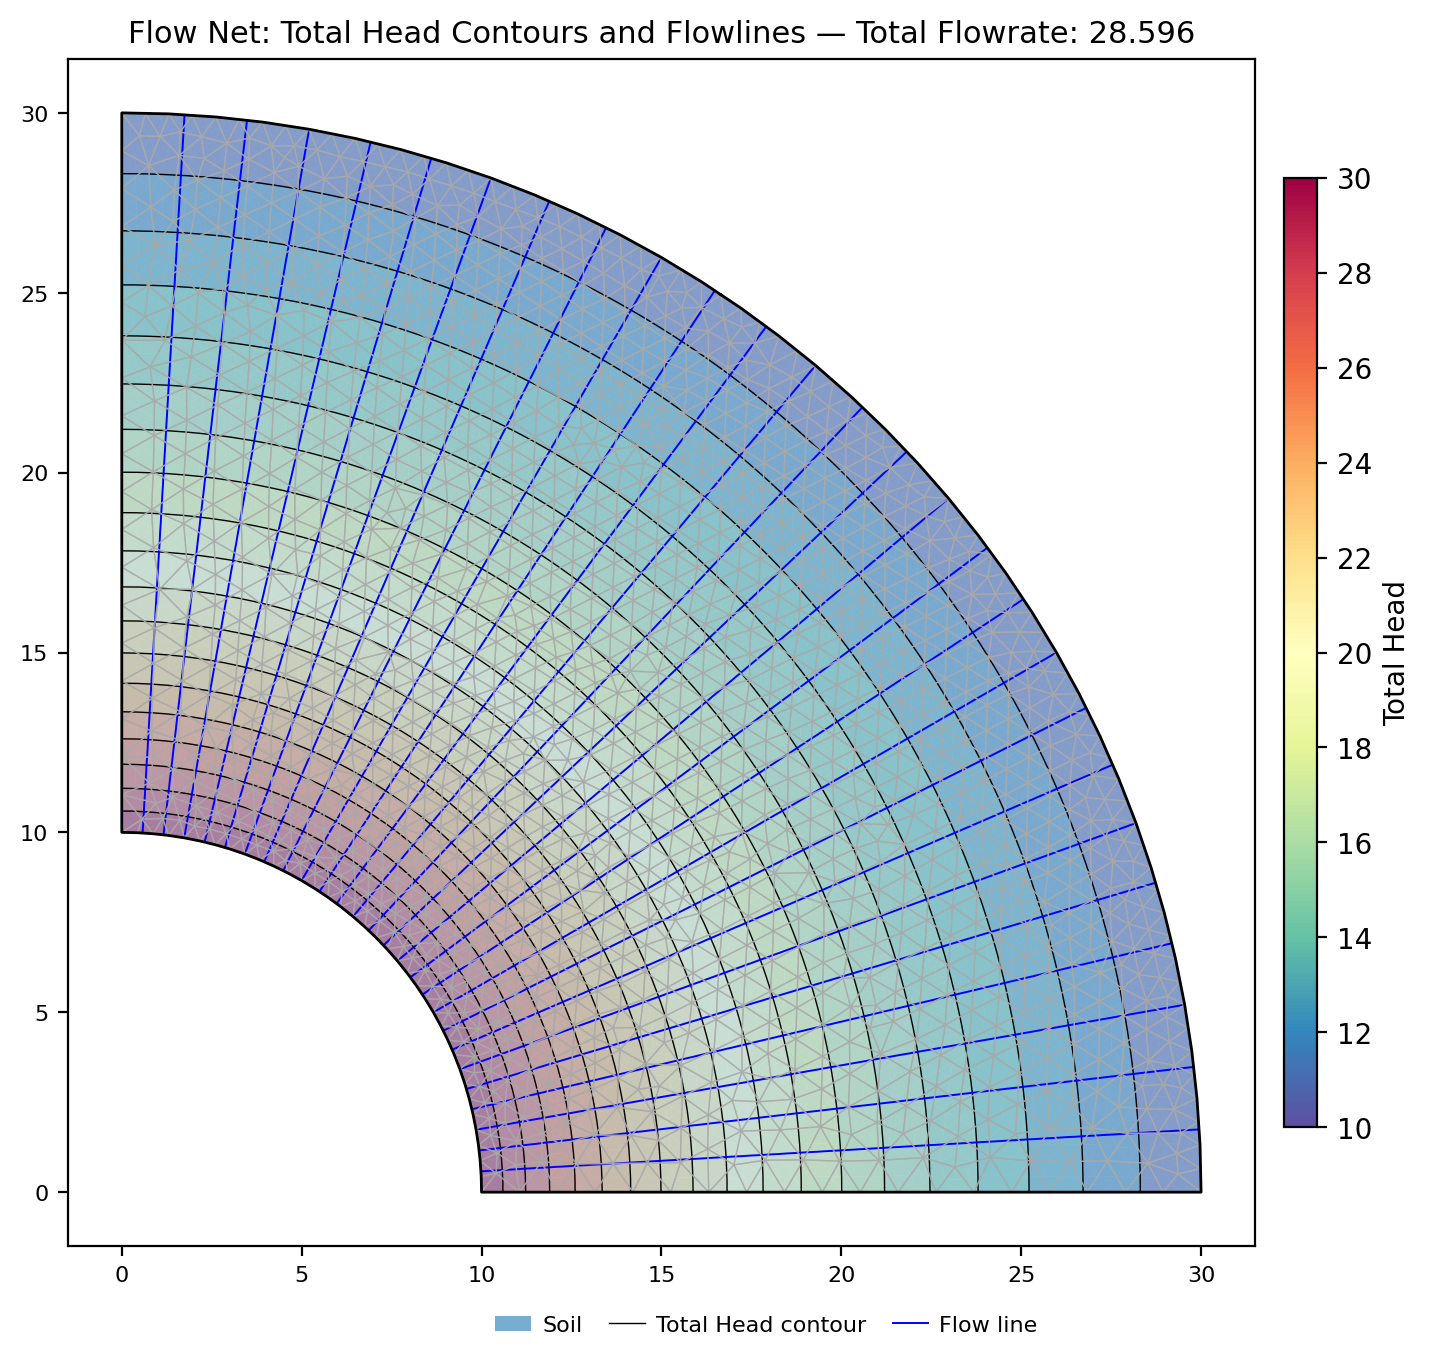
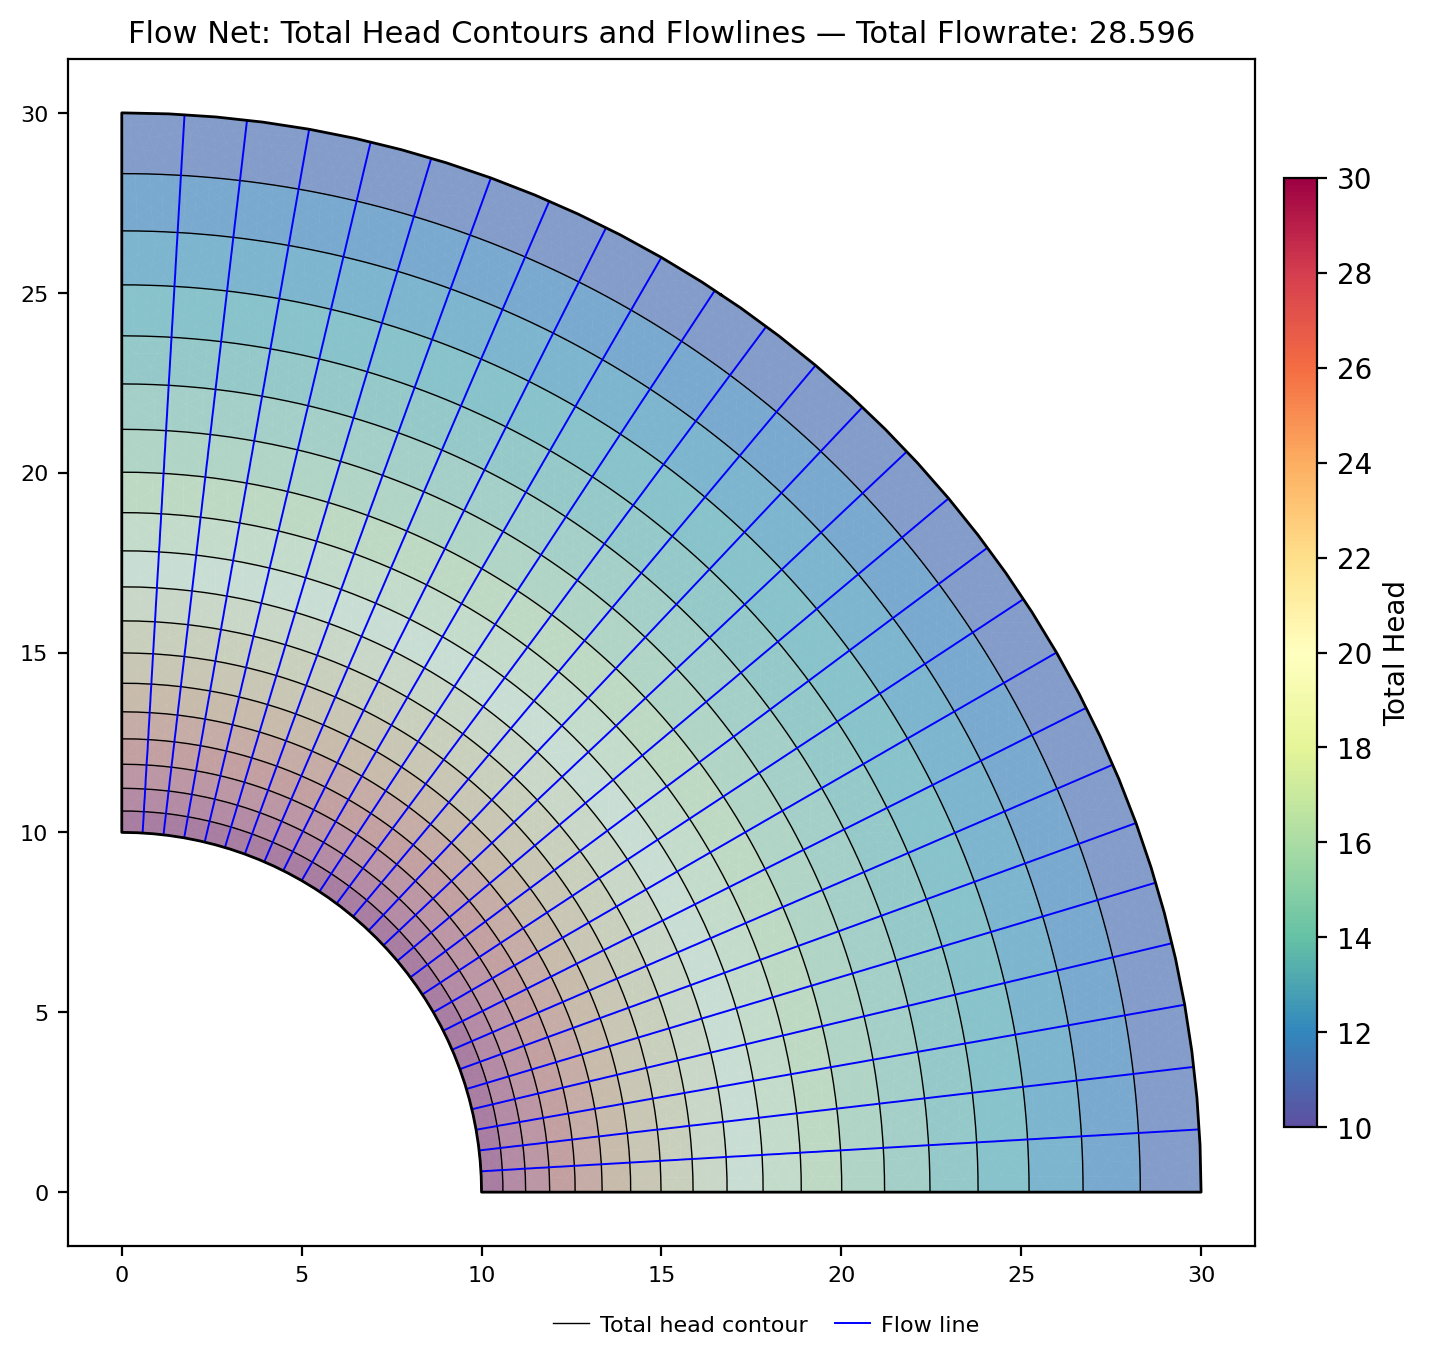
fix(seep-figs): clean flow-net rendering for the sheetpile + confined-radial verification figures
The FE-seepage flow-net figures on docs/verification/seep.md were muddied by
overlaid element edges and carried an inaccurate legend. Fix at the generator/
plot level (both figures, same defect class):

- benchmarks/make_benchmark_figures.py: seep_case now passes mesh=False, matching
  the established make_gw_figures.py convention. Element edges muddied the head
  fill and chopped the equipotential/flow lines into a dashed look; removing them
  makes the fill + contours read cleanly and the lines crisp/solid.
- xslope/plot_seep.py legend: drop the material swatch when fill_contours=True
  (the fill IS the head field, keyed by the colorbar — a material-colored swatch
  named a color absent from the plot). Kept when fill_contours=False, where the
  material color IS the visible fill (studio's default path, verified). Contour
  label sentence-cased ("Total head contour") to match "Flow line".
- xslope/plot_seep.py: equipotential tricontour pinned linestyles="solid" (crisp
  flow net regardless of sign); flowrate title falls back to 3 sig figs for tiny
  magnitudes so small flows never collapse to "0.000".

Re-draw only, not a re-solve: q = 28.596 (confined radial) and q = 5.029
(sheetpile) unchanged; same contour patterns.

Claude-Session: https://claude.ai/code/session_0147GB4LGVZuqGHCRMVzZTsR

diff --git a/xslope/plot_seep.py b/xslope/plot_seep.py
@@ -496,8 +496,12 @@ def plot_seep_solution(seep_data, solution, figsize=(12, 7), levels=20, base_mat
         contourf = ax.tricontourf(triang, contour_data, levels=contour_levels, cmap=cmap, vmin=vmin, vmax=vmax, alpha=alpha)
         contourf.set_gid('CONTOUR_FILL')
 
-    # Solid lines for contours
-    _cs = ax.tricontour(triang, contour_data, levels=contour_levels, colors="k", linewidths=0.5)
+    # Solid lines for contours. linestyles is pinned solid so the equipotentials
+    # read as a crisp flow net regardless of sign (matplotlib would otherwise dash
+    # any negative level via rcParam contour.negative_linestyle — e.g. for signed
+    # variables like pore pressure).
+    _cs = ax.tricontour(triang, contour_data, levels=contour_levels, colors="k",
+                        linewidths=0.5, linestyles="solid")
     _cs.set_gid('HEAD_CONTOURS')
 
     # Phreatic surface (pressure head = 0)
@@ -620,7 +624,11 @@ def plot_seep_solution(seep_data, solution, figsize=(12, 7), levels=20, base_mat
         if has_phreatic:
             title += " with Phreatic Surface"
         if flowrate is not None:
-            title += f" — Total Flowrate: {flowrate:.3f}"
+            # Fixed 3-decimal for O(0.1)+ flowrates (keeps the mesh-vs-exact
+            # deviation legible, e.g. 5.029); fall back to 3 significant figures
+            # for smaller magnitudes so tiny flows never collapse to "0.000".
+            q_str = f"{flowrate:.3f}" if abs(flowrate) >= 0.1 else f"{flowrate:.3g}"
+            title += f" — Total Flowrate: {q_str}"
     else:
         title = f"{variable_label} Contours"
     if show_title:
@@ -639,14 +647,21 @@ def plot_seep_solution(seep_data, solution, figsize=(12, 7), levels=20, base_mat
     from .plot import _legend_below
     mat_names = seep_data.get("material_names", [])
     leg_handles = []
-    for mat in materials:
-        nm = mat_names[mat - 1] if (mat_names and mat <= len(mat_names)) else f"Material {mat}"
-        leg_handles.append(mpatches.Patch(facecolor=mat_to_color[mat], alpha=0.6,
-                                          edgecolor="none", label=nm))
+    # Material swatches belong in the legend only when the material zone color is
+    # what the fill actually shows (fill_contours=False). With fill_contours=True the
+    # fill IS the variable field (its key is the colorbar), so a material-colored
+    # swatch would name a color the eye can't find on the plot — the legend must
+    # describe what is drawn.
+    if element_materials is not None and not fill_contours:
+        for mat in materials:
+            nm = mat_names[mat - 1] if (mat_names and mat <= len(mat_names)) else f"Material {mat}"
+            leg_handles.append(mpatches.Patch(facecolor=mat_to_color[mat], alpha=0.6,
+                                              edgecolor="none", label=nm))
     if has_phreatic:
         leg_handles.append(plt.Line2D([0], [0], color="black", lw=2.0, label="Phreatic surface"))
+    # Sentence case (capitalize() → "Total head contour") to match "Flow line".
     leg_handles.append(plt.Line2D([0], [0], color="black", lw=0.5,
-                                  label=f"{variable_label} contour"))
+                                  label=f"{variable_label.capitalize()} contour"))
     if plot_flowlines and phi is not None:
         leg_handles.append(plt.Line2D([0], [0], color="blue", lw=0.7, label="Flow line"))
     if vectors:

diff --git a/benchmarks/make_benchmark_figures.py b/benchmarks/make_benchmark_figures.py
@@ -66,8 +66,12 @@ def seep_case(xlsx, img_prefix, target_size, base_mat=1, phreatic=True):
         mesh = build_mesh_from_polygons(polys, target_size=target_size, element_type="tri6")
         seep = build_seep_data(mesh, sd, seep_bc=1)
         sol = run_seepage_analysis(seep, tol=1e-8)
+    # mesh=False: these are flow-net figures — element edges muddy the head fill
+    # and chop the equipotential/flow lines into a dashed look (same convention as
+    # benchmarks/rocscience/make_gw_figures.py).
     capture(f"docs/seep/images/{img_prefix}_solution.png", plot_seep_solution,
-            seep, sol, base_mat=base_mat, levels=20, fill_contours=True, phreatic=phreatic)
+            seep, sol, base_mat=base_mat, levels=20, fill_contours=True,
+            phreatic=phreatic, mesh=False)
     print(f"  {img_prefix}: q = {sol['flowrate']:.4f}")
 
 
